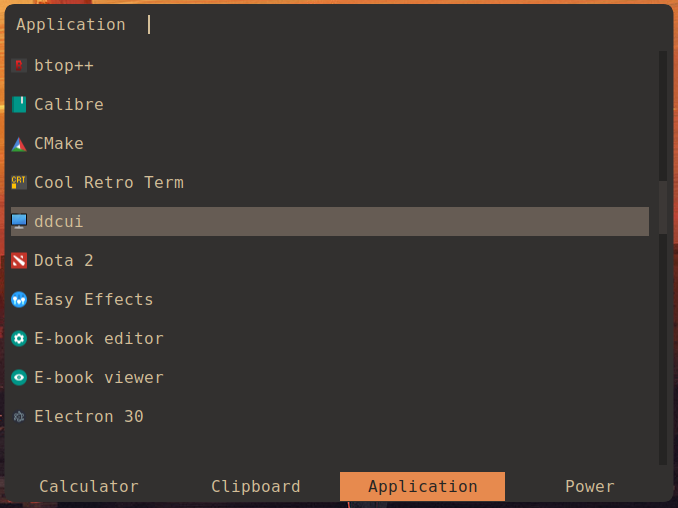
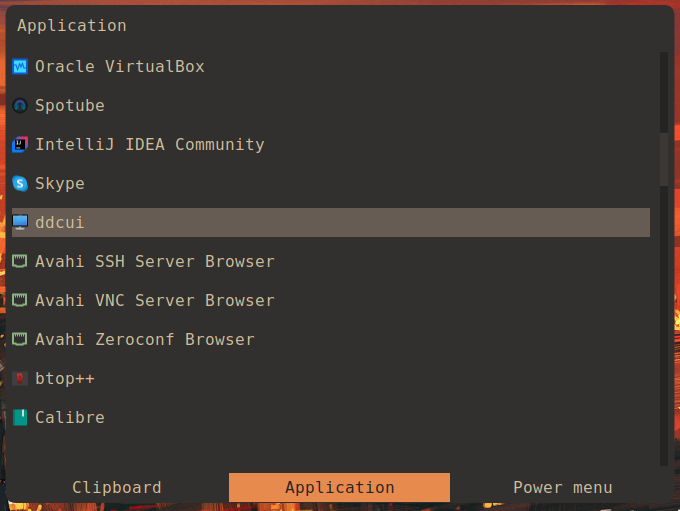
docs(rofi-calc): update docs and screens because of deprecate rofi-calc

diff --git a/.config/rofi/.github/README.md b/.config/rofi/.github/README.md
@@ -11,8 +11,6 @@ Unfortunately, the original rofi doesn't support Wayland. Therefore, I use the
 
 ## Modes
 
-- [rofi-calc](https://github.com/svenstaro/rofi-calc/) is rofi's mode as a
-  regular calculator. ![rofi-calc](rofi-calc.png "rofi-calc")
 - [rofi-cliphist](https://github.com/sentriz/cliphist/) is rofi's mode as a
   clipboard manager with image support.
   ![rofi-cliphist](rofi-cliphist.png "rofi-cliphist")
